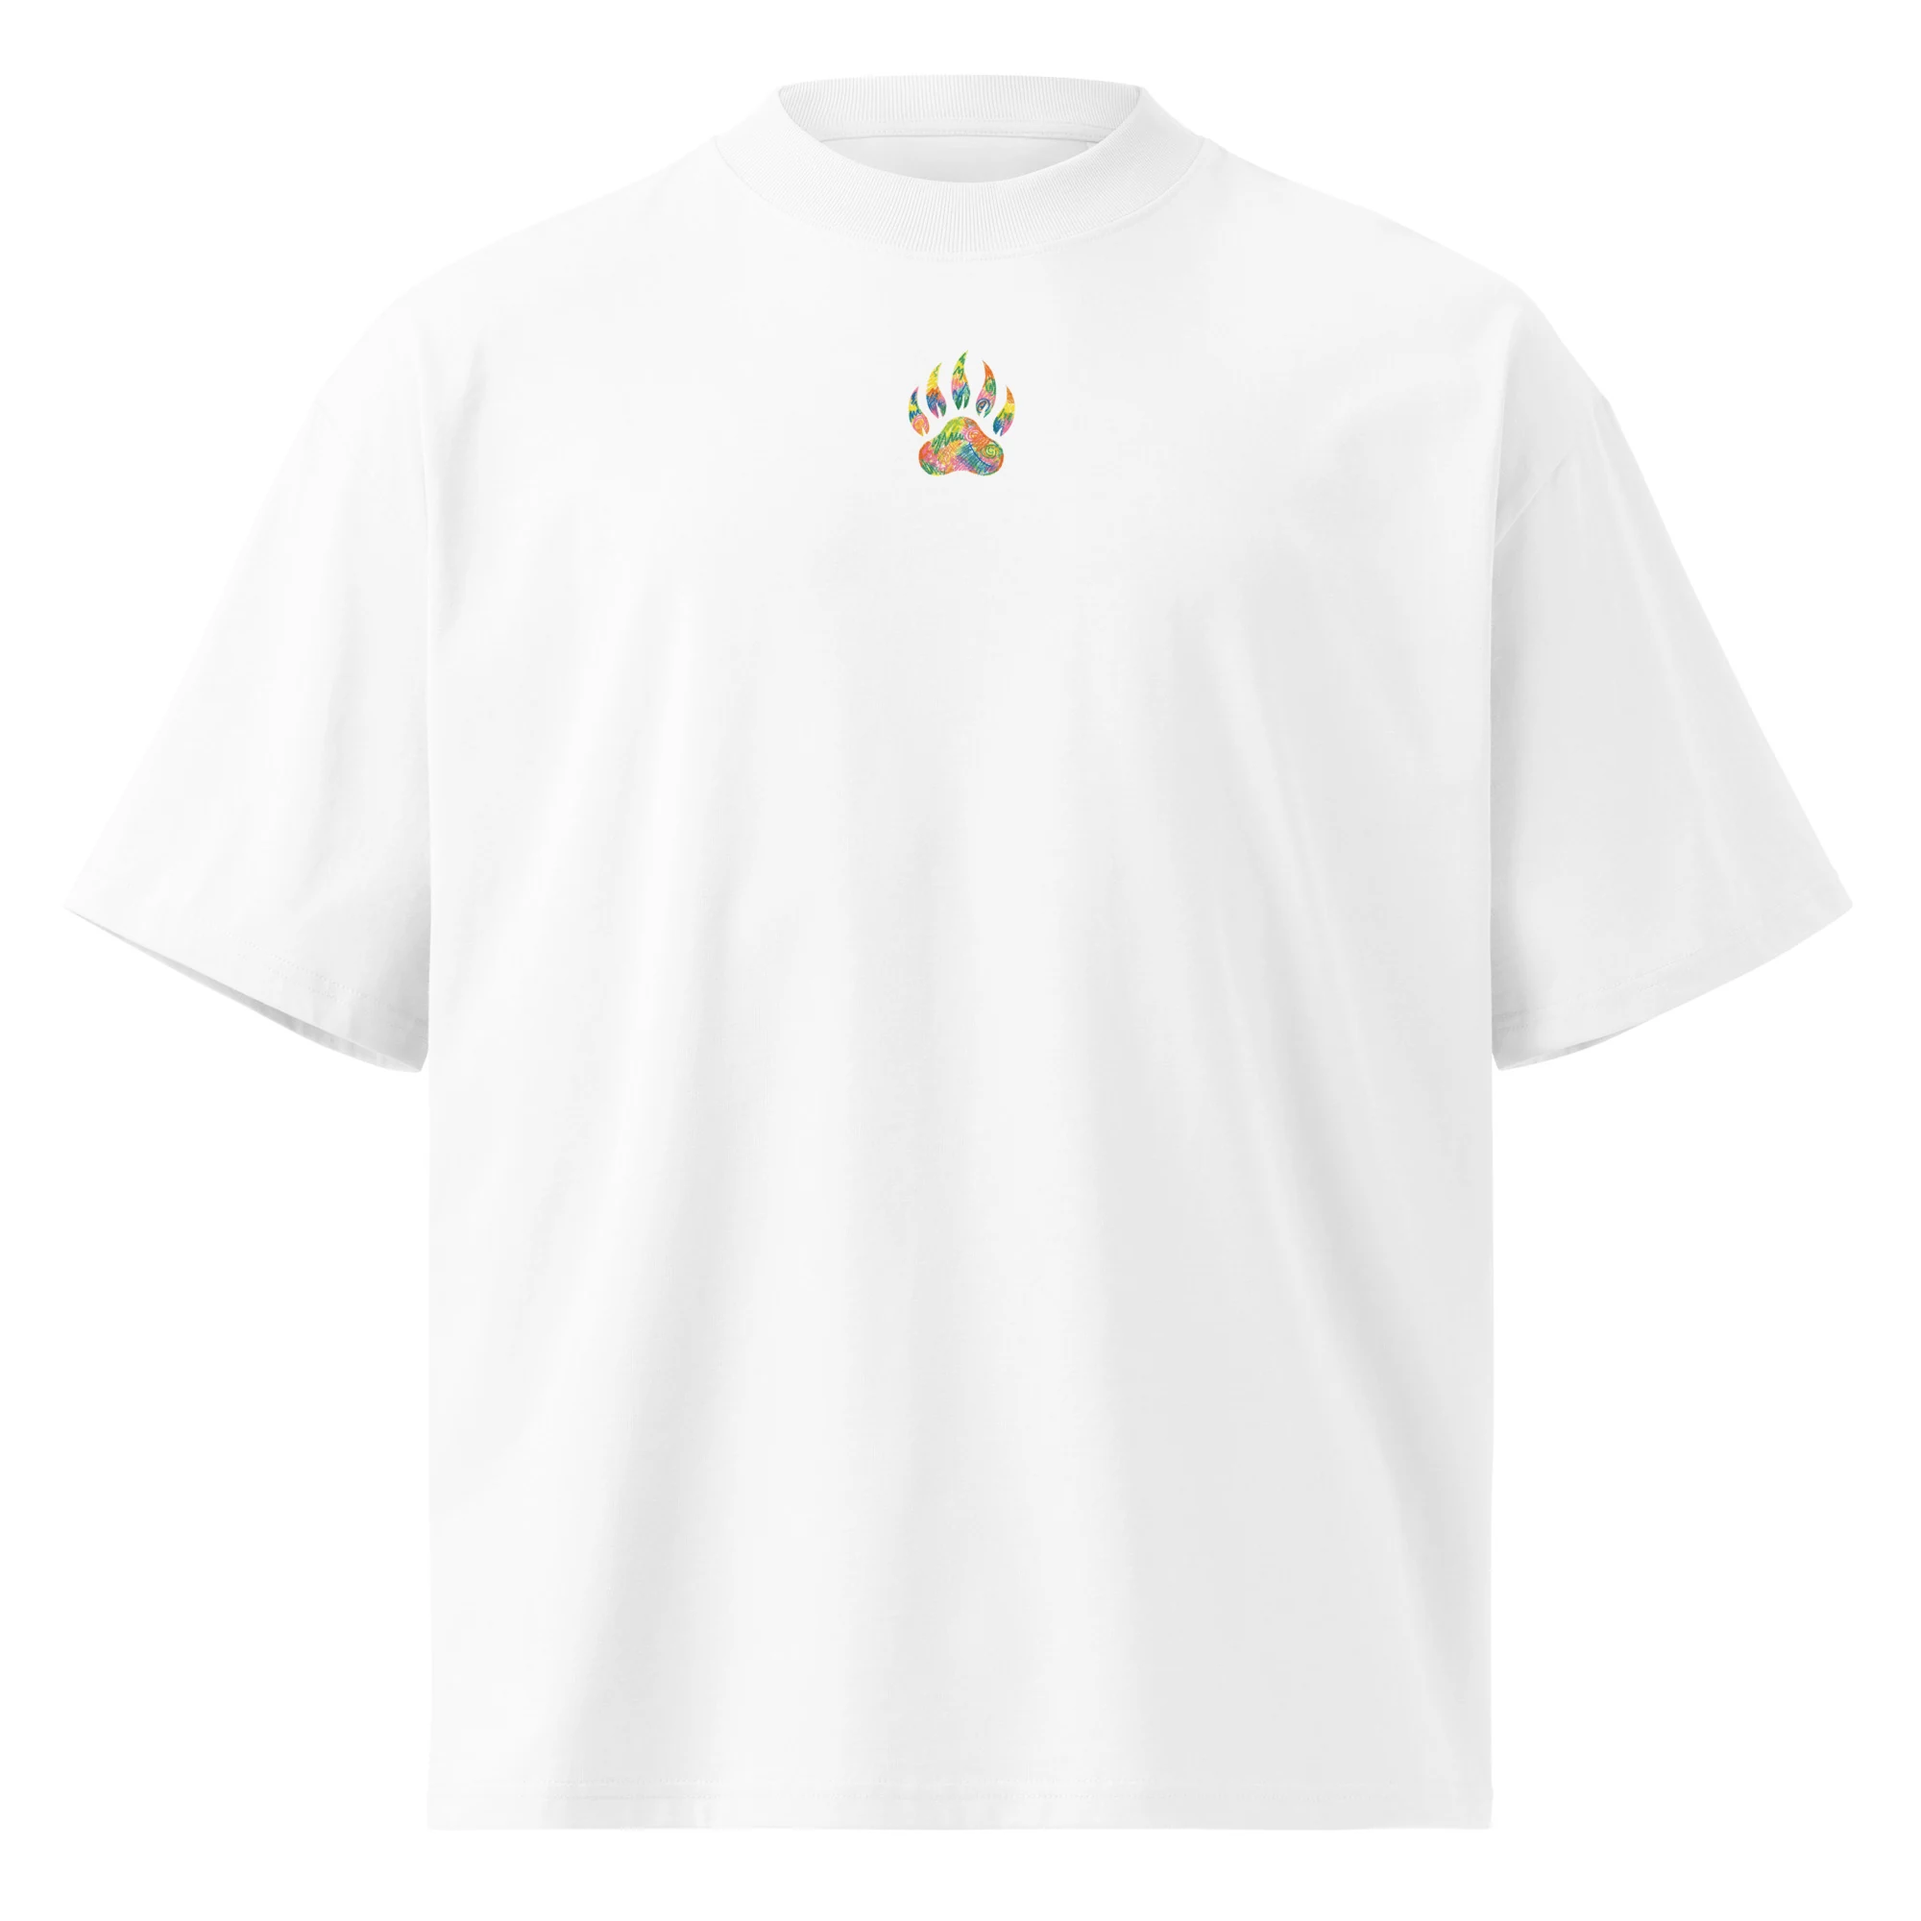
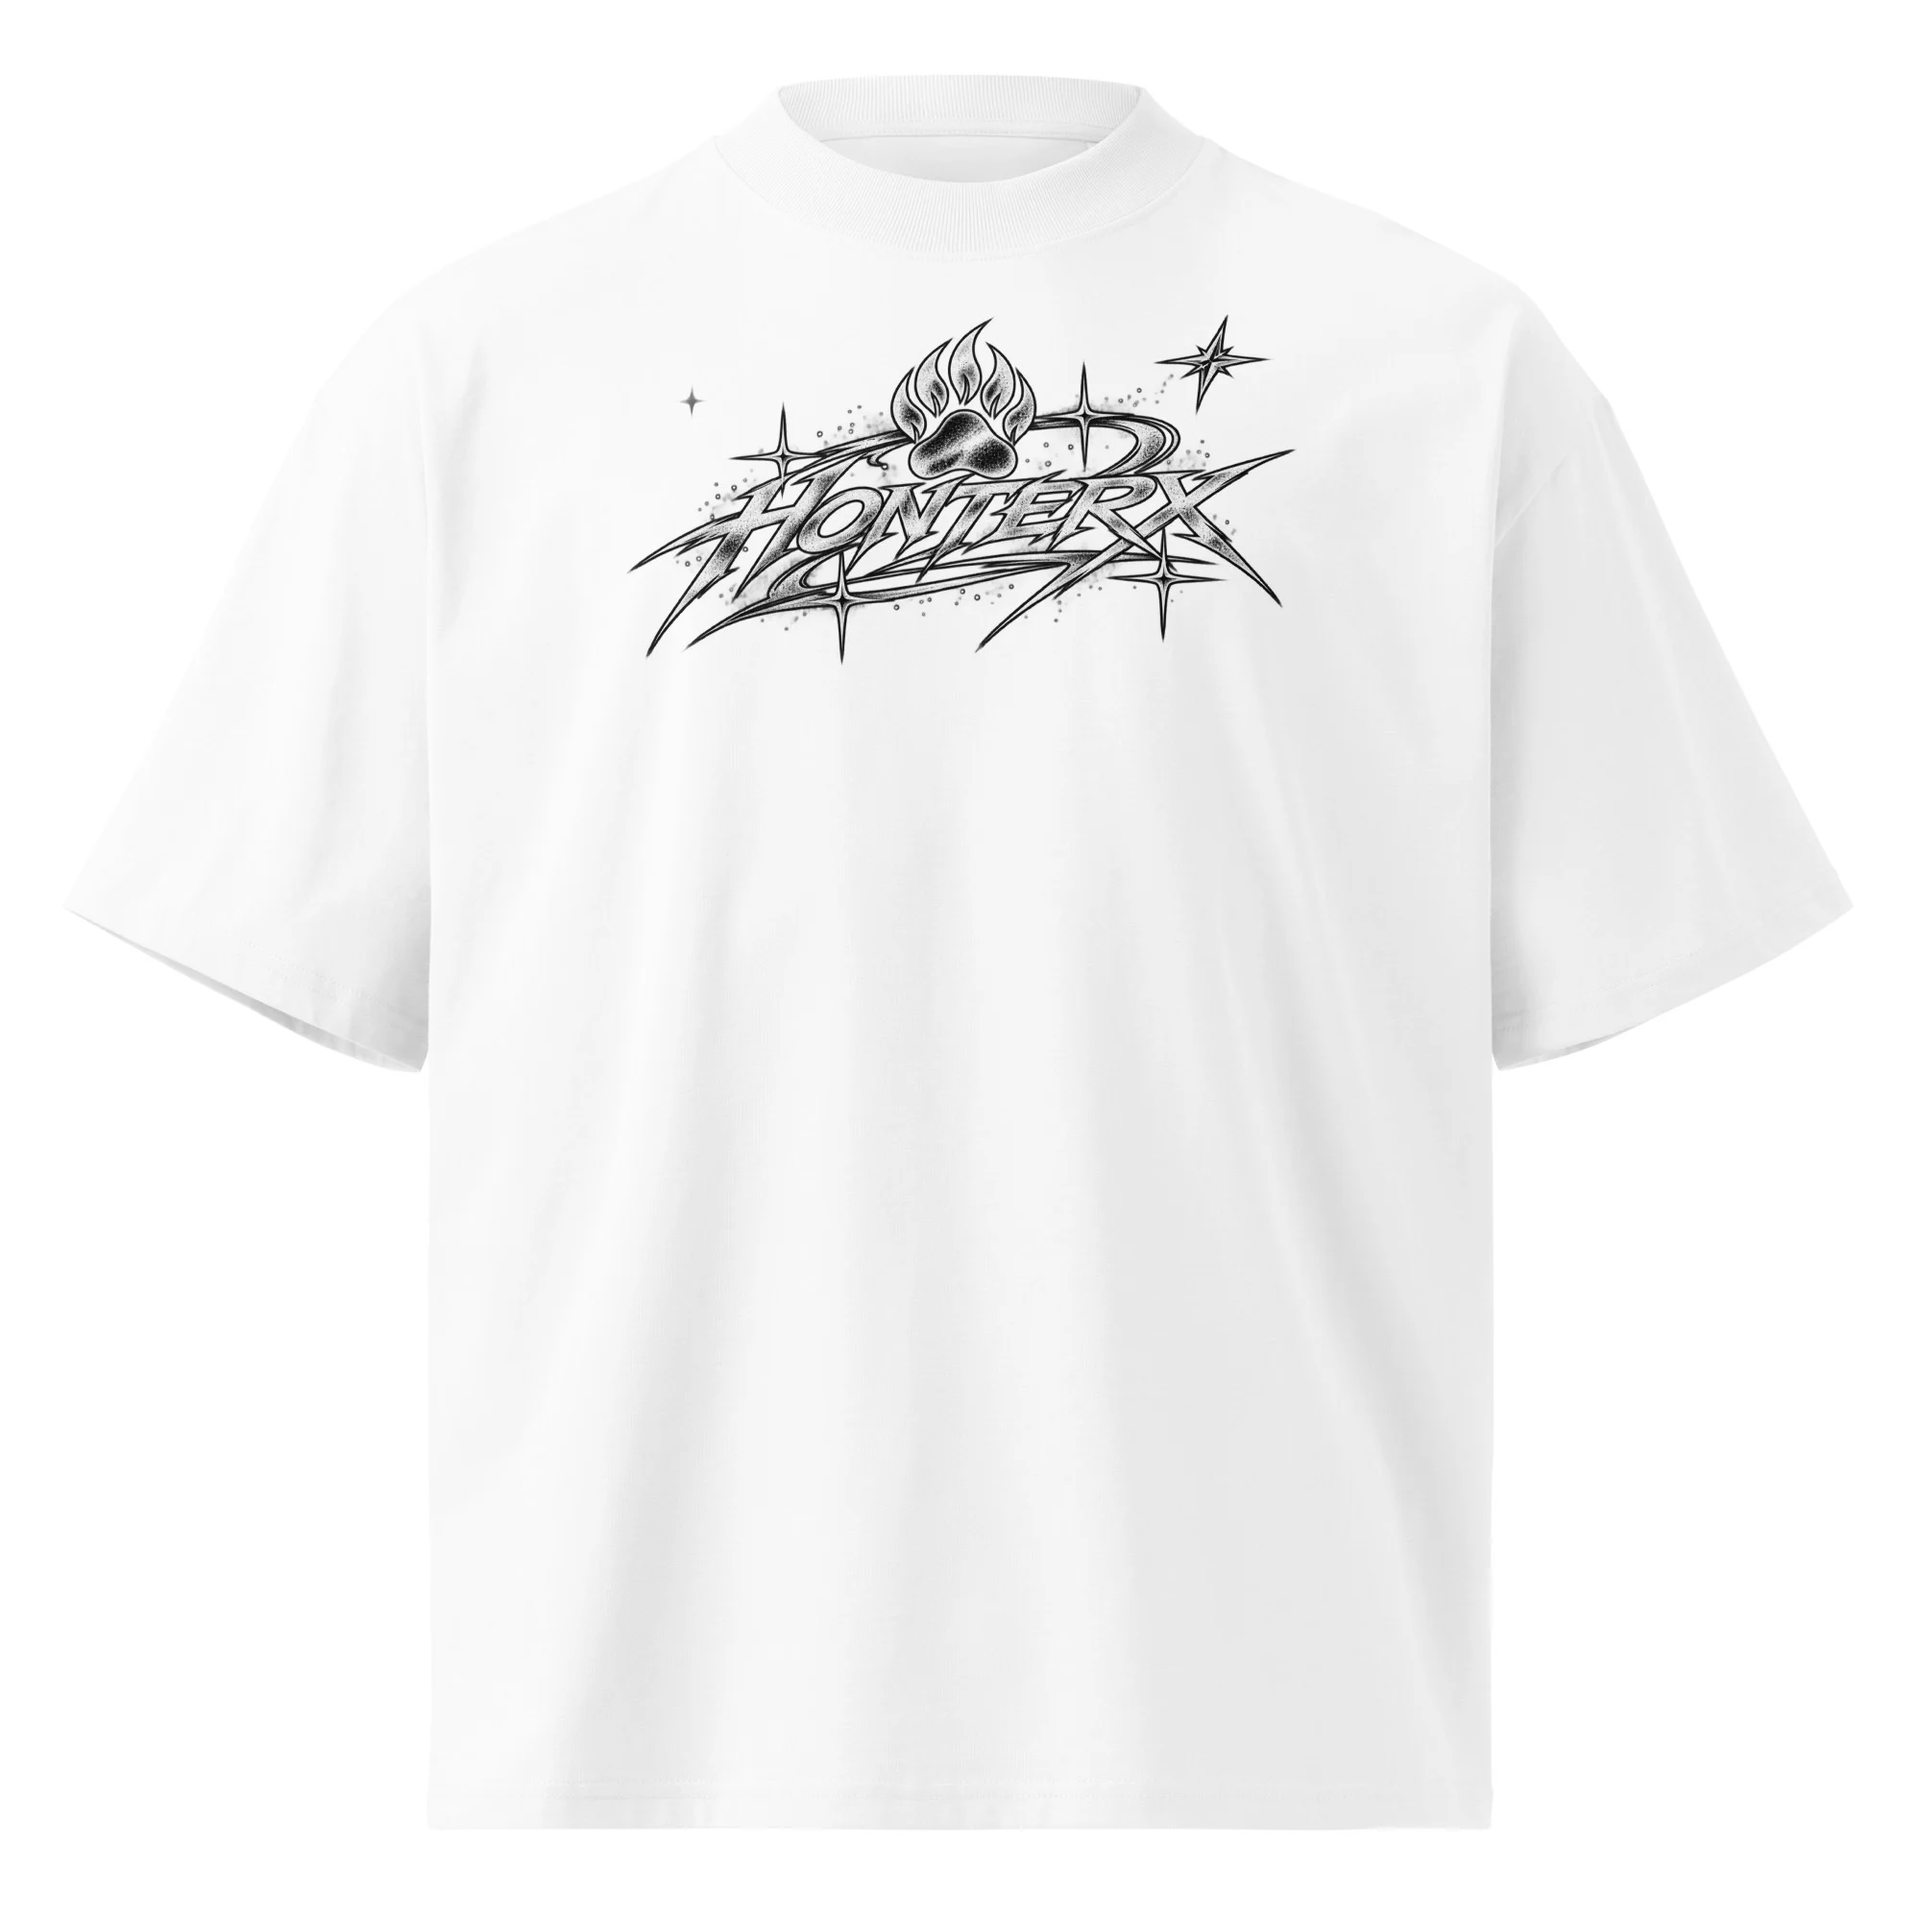
Add Signature Oversized Tee
Claude-Session: https://claude.ai/code/session_01WtkVJpWv49oULHSXpoRPMg

Changed region(s): [[0.341, 0.155, 0.651, 0.341]]

diff --git a/index.html b/index.html
@@ -747,6 +747,7 @@ const PRODUCTS = [
   {id:'t2',cat:'honterx',name:"Ember Paw II Oversized Tee",price:45,colors:['white'],kind:'tee',imgs:["img/p/t2-back.webp", "img/p/t2-front.webp", "img/p/t2-left.webp", "img/p/t2-right.webp"],desc:"Oversized, high-neck organic cotton tee with a small paw print on the chest."},
   {id:'t4',cat:'honterx',name:"Wild Paw Oversized Tee",price:45,colors:['white'],kind:'tee',imgs:["img/p/t4-back.webp", "img/p/t4-front.webp", "img/p/t4-left.webp", "img/p/t4-right.webp"],desc:"Oversized, high-neck organic cotton tee with a small paw print on the chest."},
   {id:'t5',cat:'honterx',name:"Shadow Paw Oversized Tee",price:45,colors:['white'],kind:'tee',imgs:["img/p/t5-back.webp", "img/p/t5-front.webp", "img/p/t5-left.webp", "img/p/t5-right.webp"],desc:"Oversized, high-neck organic cotton tee with a small paw print on the chest."},
+  {id:'t6',cat:'honterx',name:"Signature Oversized Tee",price:45,colors:['white'],kind:'tee',boxy:true,otee:true,imgs:["img/p/t6-front.webp", "img/p/t6-back.webp", "img/p/t6-left.webp", "img/p/t6-right.webp"],desc:"Oversized organic cotton tee with dropped shoulders and a bold Høntérx graphic on the chest and sleeves."},
   {id:'t6',cat:'honterx',name:"Prism Paw Oversized Tee",price:45,colors:['white'],kind:'tee',imgs:["img/p/t6-back.webp", "img/p/t6-front.webp", "img/p/t6-left.webp", "img/p/t6-right.webp"],desc:"Oversized, high-neck organic cotton tee with a small paw print on the chest."},
   {id:'t8',cat:'honterx',name:"Liberty Paw Oversized Tee",price:45,colors:['white'],kind:'tee',imgs:["img/p/t8-back.webp", "img/p/t8-front.webp", "img/p/t8-left.webp", "img/p/t8-right.webp"],desc:"Oversized, high-neck organic cotton tee with a small paw print on the chest."},
   {id:'t10',cat:'honterx',name:"Crimson Paw Oversized Tee",price:45,colors:['white'],kind:'tee',imgs:["img/p/t10-back.webp", "img/p/t10-front.webp", "img/p/t10-left.webp", "img/p/t10-right.webp"],desc:"Oversized, high-neck organic cotton tee with a small paw print on the chest."},
@@ -843,13 +844,15 @@ const CHARTS = {
 function detailsOf(p){
   const hood = p.cat === 'hoodies', cap = p.cat === 'caps';
   const sw = p.cat === 'sweatshirts';
-  const rg = p.raglan;
-  const long = rg ? `The ${p.name} is extra soft and made to be worn on repeat. Organic cotton outside, a brushed lining inside, raglan sleeves and a jersey-lined hood give it an easy, regular fit that works for almost any occasion, finished with a neat embroidered emblem on the chest.`
+  const ot = p.otee, rg = p.raglan;
+  const long = ot ? `The ${p.name} is an urban, oversized tee in 100% organic combed ring-spun cotton. A wide neck and dropped shoulders give it a relaxed, trend-led drape, with a bold Høntérx graphic across the chest and down both sleeves.`
+    : rg ? `The ${p.name} is extra soft and made to be worn on repeat. Organic cotton outside, a brushed lining inside, raglan sleeves and a jersey-lined hood give it an easy, regular fit that works for almost any occasion, finished with a neat embroidered emblem on the chest.`
     : sw ? `The ${p.name} is made to be worn far more than it hangs. Smooth 100% organic cotton outside keeps a clean look, while the brushed fleece inside is soft against the skin. Raglan sleeves, neck tape and 2×2 ribbed cuffs, collar and hem finish it, with a neat embroidered ${p.emb||'paw'} on the chest.`
     : cap ? `The ${p.name} is a structured Flexfit cap built to hold its shape. A 6-panel, mid-profile crown with a low-profile embroidery area carries a bold embroidered paw, finished with a curved visor and a silver undervisor. A stretch band gives a secure, comfortable fit in two sizes.`
     : hood ? `The ${p.name} is built from heavyweight brushed fleece that is soft on the inside and holds its shape outside. ${p.kind==='zip'?'A full-length zip makes it easy to layer.':'A structured hood and kangaroo pocket keep it simple and sharp.'} ${p.boxy?'A wider body and dropped shoulders give it a relaxed silhouette.':'Athletic cut through the chest and shoulders.'}`
     : `The ${p.name} is cut from dense cotton jersey with a ribbed collar that keeps its shape wash after wash. ${p.boxy?'Boxy body and dropped shoulders for a heavier drape.':'Straight, clean cut that sits sharp on its own or layered.'}`;
-  const bullets = rg ? ['100% organic cotton exterior, brushed lining','Mid-weight 8.3 oz/yd² (280 g/m²) fabric','Raglan sleeves, jersey-lined hood, metal-eyelet drawstrings','GOTS and OCS certified, OEKO-TEX® and PETA-Approved Vegan']
+  const bullets = ot ? ['100% organic combed ring-spun cotton','5.9 oz/yd² (200 g/m²) fabric','Oversized fit, dropped shoulders, 1×1 rib collar','Double-needle topstitch, GOTS and OCS certified']
+    : rg ? ['100% organic cotton exterior, brushed lining','Mid-weight 8.3 oz/yd² (280 g/m²) fabric','Raglan sleeves, jersey-lined hood, metal-eyelet drawstrings','GOTS and OCS certified, OEKO-TEX® and PETA-Approved Vegan']
     : sw ? ['100% organic cotton exterior, brushed fleece lining','Mid-weight 8.3 oz/yd² (280 g/m²) fabric','Raglan sleeves, side-seamed, neck tape','GOTS and OCS certified organic cotton']
     : cap ? ['63% polyester, 34% cotton, 3% spandex twill','Structured 6-panel, mid-profile crown','6 embroidered eyelets and silver undervisor','Stretch band, two sizes (22"–23⅞")']
     : hood ? ['Heavyweight brushed fleece (about 400 gsm)','Double-layer hood with flat drawcord','Ribbed cuffs and hem','Machine wash cold inside out, tumble low']

diff --git a/api/checkout.js b/api/checkout.js
@@ -27,6 +27,7 @@ const PRODUCTS = {
   h16: { name: "H\u00f8nt\u00e9rx Military Green Paw Hoodie", price: 85 },
   h17: { name: "H\u00f8nt\u00e9rx Sky Paw Hoodie", price: 85 },
   h18: { name: "H\u00f8nt\u00e9rx Royal Gold Paw Hoodie", price: 85 },
+  t6: { name: "H\u00f8nt\u00e9rx Signature Oversized Tee", price: 45 },
   h19: { name: "H\u00f8nt\u00e9rx Midnight Raglan Hoodie", price: 85 },
   h20: { name: "H\u00f8nt\u00e9rx Ivory Raglan Hoodie", price: 85 },
   h21: { name: "H\u00f8nt\u00e9rx Gold Raglan Hoodie", price: 85 },
